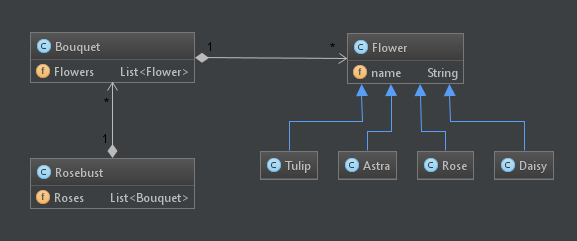
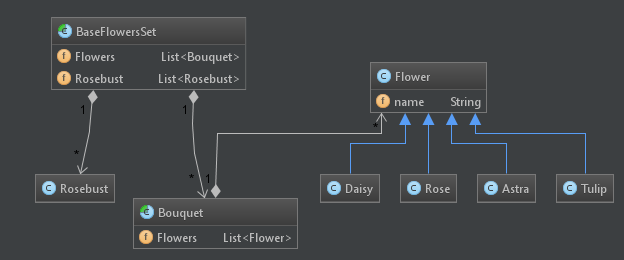
Module 2-2 changes.

Changed region(s): [[0.0312, 0.0581, 0.9983, 0.9585]]

diff --git a/src/Module02/File/Flowers/BaseFlowersSet.java b/src/Module02/File/Flowers/BaseFlowersSet.java
@@ -1,0 +1,11 @@
+package Module02.File.Flowers;
+
+import java.util.List;
+
+/**
+ * Created by Irina on 30.05.2016.
+ */
+public abstract class BaseFlowersSet {
+    List<Bouquet> Flowers;
+    List<Rosebust> Rosebust;
+}

diff --git a/src/Module02/File/Flowers/Rosebust.java b/src/Module02/File/Flowers/Rosebust.java
@@ -1,10 +1,8 @@
 package Module02.File.Flowers;
 
-import java.util.List;
 
 /**
  * Created by Irina on 30.05.2016.
  */
 public class Rosebust {
-    List<Bouquet> Roses;
 }
